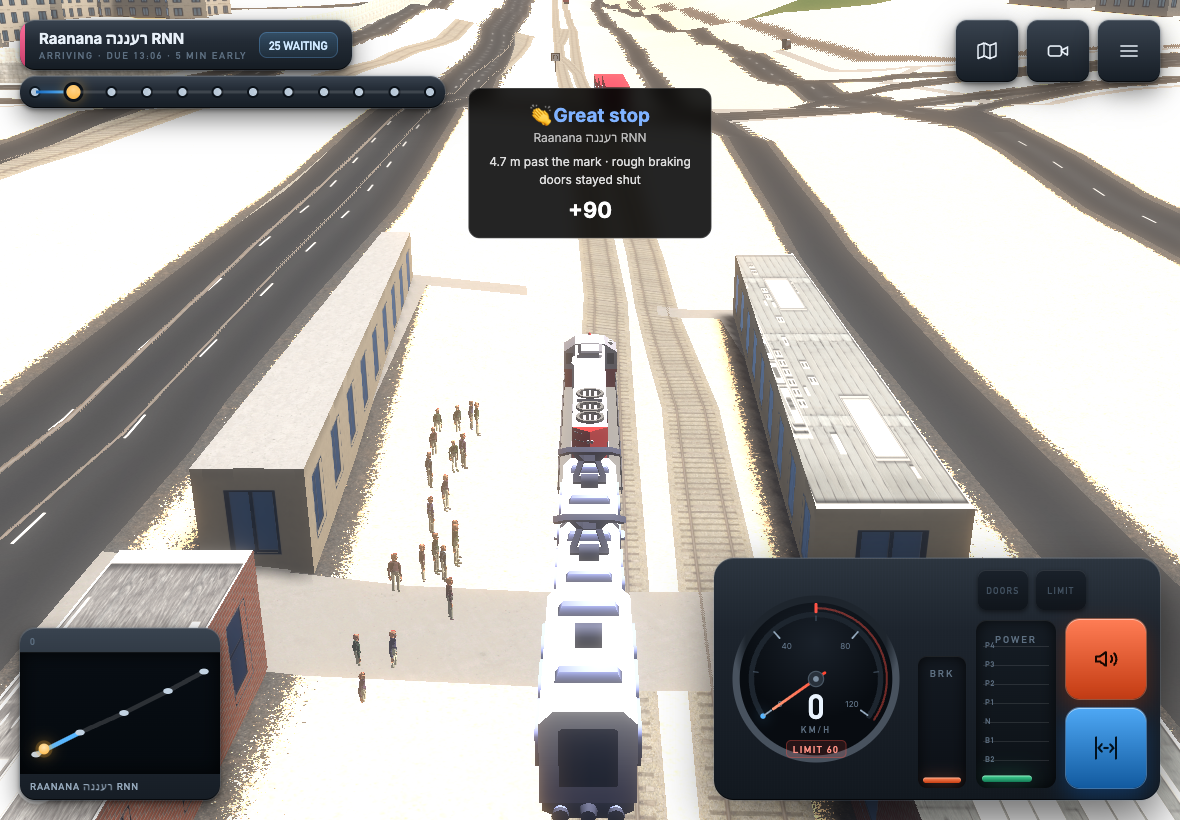
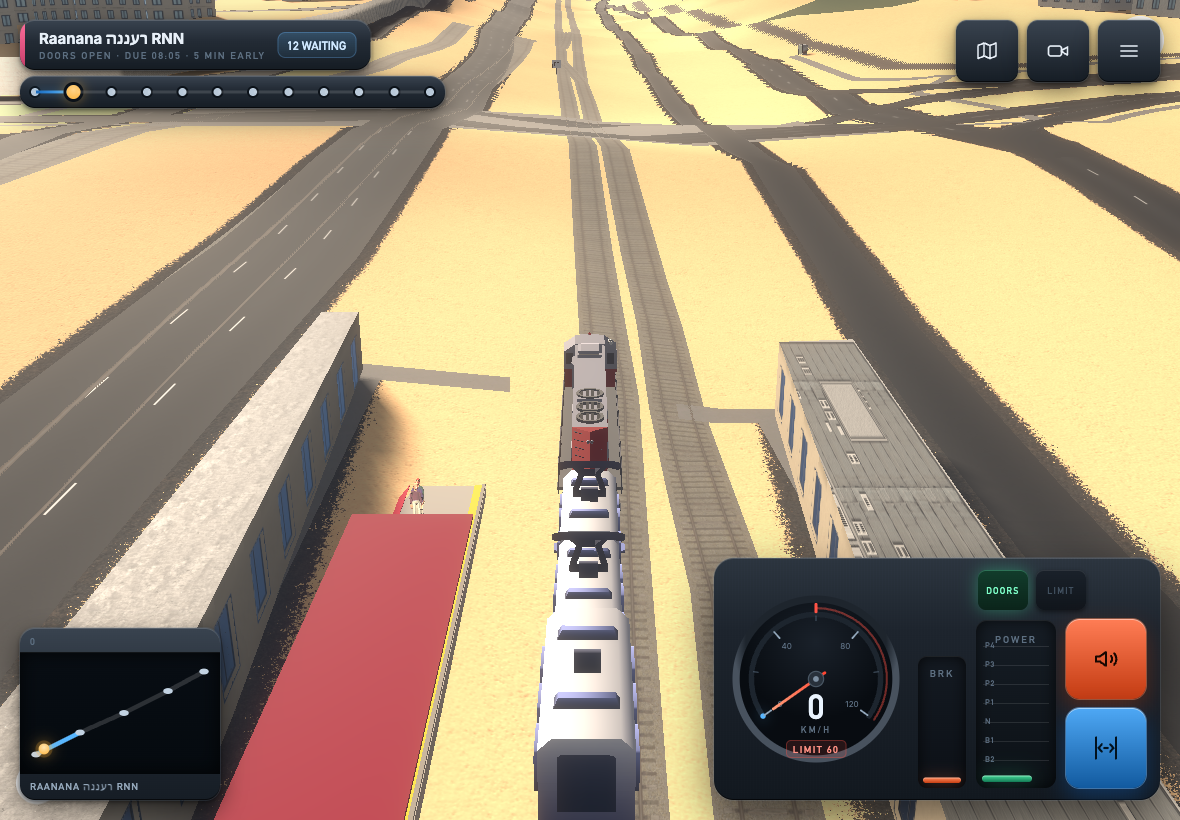
fix(service): the timetable follows the train, and stops claiming you are early
Two defects in 2.7.0, both found by driving it rather than reading it.

TURNING AROUND LEFT THE SCHEDULE BEHIND. The timetable was built once per
line in station-index order, so reversing ran it backwards: every stop
ahead was due at a time already gone. Rebuilding it in reverse order was
not enough either -- that scheduled the service from the FAR END of the
line, so after turning around at the first stop the next stop read 96
minutes early. The schedule is now built from the stops actually ahead of
the train's current position, in travel order. Measured: forward gives 20
stops (station 0 correctly excluded, it is behind you); reversed at the
same spot gives the 1 stop that is now ahead; the next due time is in the
future in both.

THE BOARD CLAIMED "6 MIN EARLY" WHILE STILL DRIVING. Lateness compares
now against the due time, so en route it always reads early -- which
tells the driver something untrue. The standing is now shown once you are
actually there (arriving or doors open), and running LATE still shows
while moving because that part is already the case. Measured across a
leg: "DUE 08:05" en route and closing, then "ARRIVING · DUE 08:05 · 5 MIN
EARLY" on the stand, then "DOORS OPEN · ...".

diff --git a/streets-gl/src/app/game/service/ServiceSystem.ts b/streets-gl/src/app/game/service/ServiceSystem.ts
@@ -1,7 +1,7 @@
 import System from '../../System';
 import UISystem from '../../systems/UISystem';
 import TrainSystem from '../TrainSystem';
-import {buildTimetable, latenessSeconds, type ServiceStop} from './ServiceTimetable';
+import {buildTimetable, latenessSeconds, stopFor, type ServiceStop} from './ServiceTimetable';
 
 /**
  * The service you are running.
@@ -22,6 +22,7 @@ export default class ServiceSystem extends System {
 	/** Actual arrival time per station index, once it happens. */
 	private actuals: Map<number, number> = new Map();
 	private lastRecordedIdx: number = -1;
+	private builtForDirection: number = 0;
 
 	public postInit(): void {
 		// The line and its stations are not loaded yet.
@@ -47,7 +48,7 @@ export default class ServiceSystem extends System {
 		if (!ss || this.stops.length === 0) return null;
 
 		const idx = ss.arriving ? ss.nearestStationIdx : ss.nextStationIdx;
-		const stop = this.stops[idx];
+		const stop = stopFor(this.stops, idx);
 
 		if (!stop) return null;
 
@@ -62,7 +63,7 @@ export default class ServiceSystem extends System {
 
 		const idx = ss.arriving ? ss.nearestStationIdx : ss.nextStationIdx;
 
-		return this.stops[idx]?.dueAt ?? null;
+		return stopFor(this.stops, idx)?.dueAt ?? null;
 	}
 
 	private worldNow(): number {
@@ -78,10 +79,18 @@ export default class ServiceSystem extends System {
 
 		if (!ls) return;
 
-		if (this.builtForLine !== trainSystem.currentLineIdx) {
+		// Turning the train around starts a new service: the stops ahead are
+		// different ones, in the other order. Keeping the old schedule would
+		// give them times already gone by.
+		const direction = trainSystem.physicsState.direction || 1;
+
+		if (this.builtForLine !== trainSystem.currentLineIdx || this.builtForDirection !== direction) {
 			this.builtAt = this.worldNow();
-			this.stops = buildTimetable(ls.realStationDists, this.builtAt);
+			this.stops = buildTimetable(
+				ls.realStationDists, this.builtAt, direction, trainSystem.physicsState.trainDist,
+			);
 			this.builtForLine = trainSystem.currentLineIdx;
+			this.builtForDirection = direction;
 			this.actuals.clear();
 			this.lastRecordedIdx = -1;
 		}

diff --git a/streets-gl/src/app/game/service/ServiceTimetable.ts b/streets-gl/src/app/game/service/ServiceTimetable.ts
@@ -29,22 +29,44 @@ export interface ServiceStop {
  *
  * `stationDists` are metres along the track, in order.
  */
-export function buildTimetable(stationDists: number[], departAt: number): ServiceStop[] {
+export function buildTimetable(
+	stationDists: number[],
+	departAt: number,
+	direction: number = 1,
+	fromDist: number = -Infinity,
+): ServiceStop[] {
+	// Travel order from WHERE THE TRAIN IS, not index order from the end of the
+	// line. Two things go wrong otherwise. Driving the line the other way
+	// visits the stations in reverse, so an index-ordered schedule gives the
+	// stops ahead times already gone by. And scheduling from the far end means
+	// a service that starts at a station the driver is nowhere near: measured
+	// after turning around at the first stop, the next stop read 96 minutes
+	// early because its due time came from the far end of a reversed list.
+	const ahead = stationDists
+		.map((d, i) => ({d, i}))
+		.filter(s => (direction < 0 ? s.d < fromDist : s.d > fromDist));
+
+	ahead.sort((a, b) => (direction < 0 ? b.d - a.d : a.d - b.d));
+
 	const stops: ServiceStop[] = [];
 	let when = departAt;
+	let previous = Number.isFinite(fromDist) ? fromDist : ahead[0]?.d ?? 0;
 
-	for (let i = 0; i < stationDists.length; i++) {
-		if (i > 0) {
-			const leg = Math.max(0, stationDists[i] - stationDists[i - 1]);
-			const runS = leg / (CRUISE_KMH / 3.6);
+	for (const stop of ahead) {
+		const runS = Math.abs(stop.d - previous) / (CRUISE_KMH / 3.6);
 
-			when += (runS + DWELL_S + RECOVERY_S) * 1000;
-		}
+		when += (runS + DWELL_S + RECOVERY_S) * 1000;
+		previous = stop.d;
 
-		stops.push({stationIndex: i, dueAt: when});
+		stops.push({stationIndex: stop.i, dueAt: when});
 	}
 
 	return stops;
+}
+
+/** The scheduled stop for a station, wherever it sits in the running order. */
+export function stopFor(stops: ServiceStop[], stationIndex: number): ServiceStop | undefined {
+	return stops.find(s => s.stationIndex === stationIndex);
 }
 
 /**

diff --git a/streets-gl/src/app/game/version.ts b/streets-gl/src/app/game/version.ts
@@ -20,6 +20,18 @@ export interface ReleaseEntry {
 
 export const CHANGELOG: ReleaseEntry[] = [
 	{
+		version: '2.7.1',
+		codename: 'Right Way Round',
+		date: '2026-08-14',
+		emblem: '🔁🕗',
+		summary: 'The timetable now follows you when you turn the train around, and stops claiming you are early before you have arrived.',
+		changes: [
+			'TURN AROUND AND THE TIMETABLE TURNS WITH YOU — Driving back the other way gives you a new service for the stops actually ahead of you. Before this, reversing left you running the old schedule backwards, with every stop ahead due at a time that had already gone.',
+			'The service starts from where your train IS, not from the end of the line, so the first stop is the next one you will reach.',
+			'The board no longer says "6 MIN EARLY" while you are still driving towards a stop — you cannot be early until you get there. It shows the due time on the way, and how you did once you arrive. Running late still shows straight away, because that part is already true.',
+		],
+	},
+	{
 		version: '2.7.0',
 		codename: 'The 08:06',
 		date: '2026-08-14',

diff --git a/streets-gl/src/app/game/GameUISystem.ts b/streets-gl/src/app/game/GameUISystem.ts
@@ -771,7 +771,14 @@ export default class GameUISystem extends System {
 		if (due === null || due === undefined) return state;
 
 		const late = service?.currentLateness() ?? null;
-		const standing = describeLateness(late);
+		const there = doorsOpen || arriving;
+
+		// You cannot be EARLY until you have arrived — before that you have
+		// simply not got there yet, and a board reading "6 MIN EARLY" halfway
+		// down a leg is telling the driver something untrue. Running late IS
+		// worth knowing while moving, because it is already the case.
+		const show = there || (late !== null && late >= 45);
+		const standing = show ? describeLateness(late) : '';
 
 		return `${state} · DUE ${clockFace(due)}${standing ? ` · ${standing.toUpperCase()}` : ''}`;
 	}
